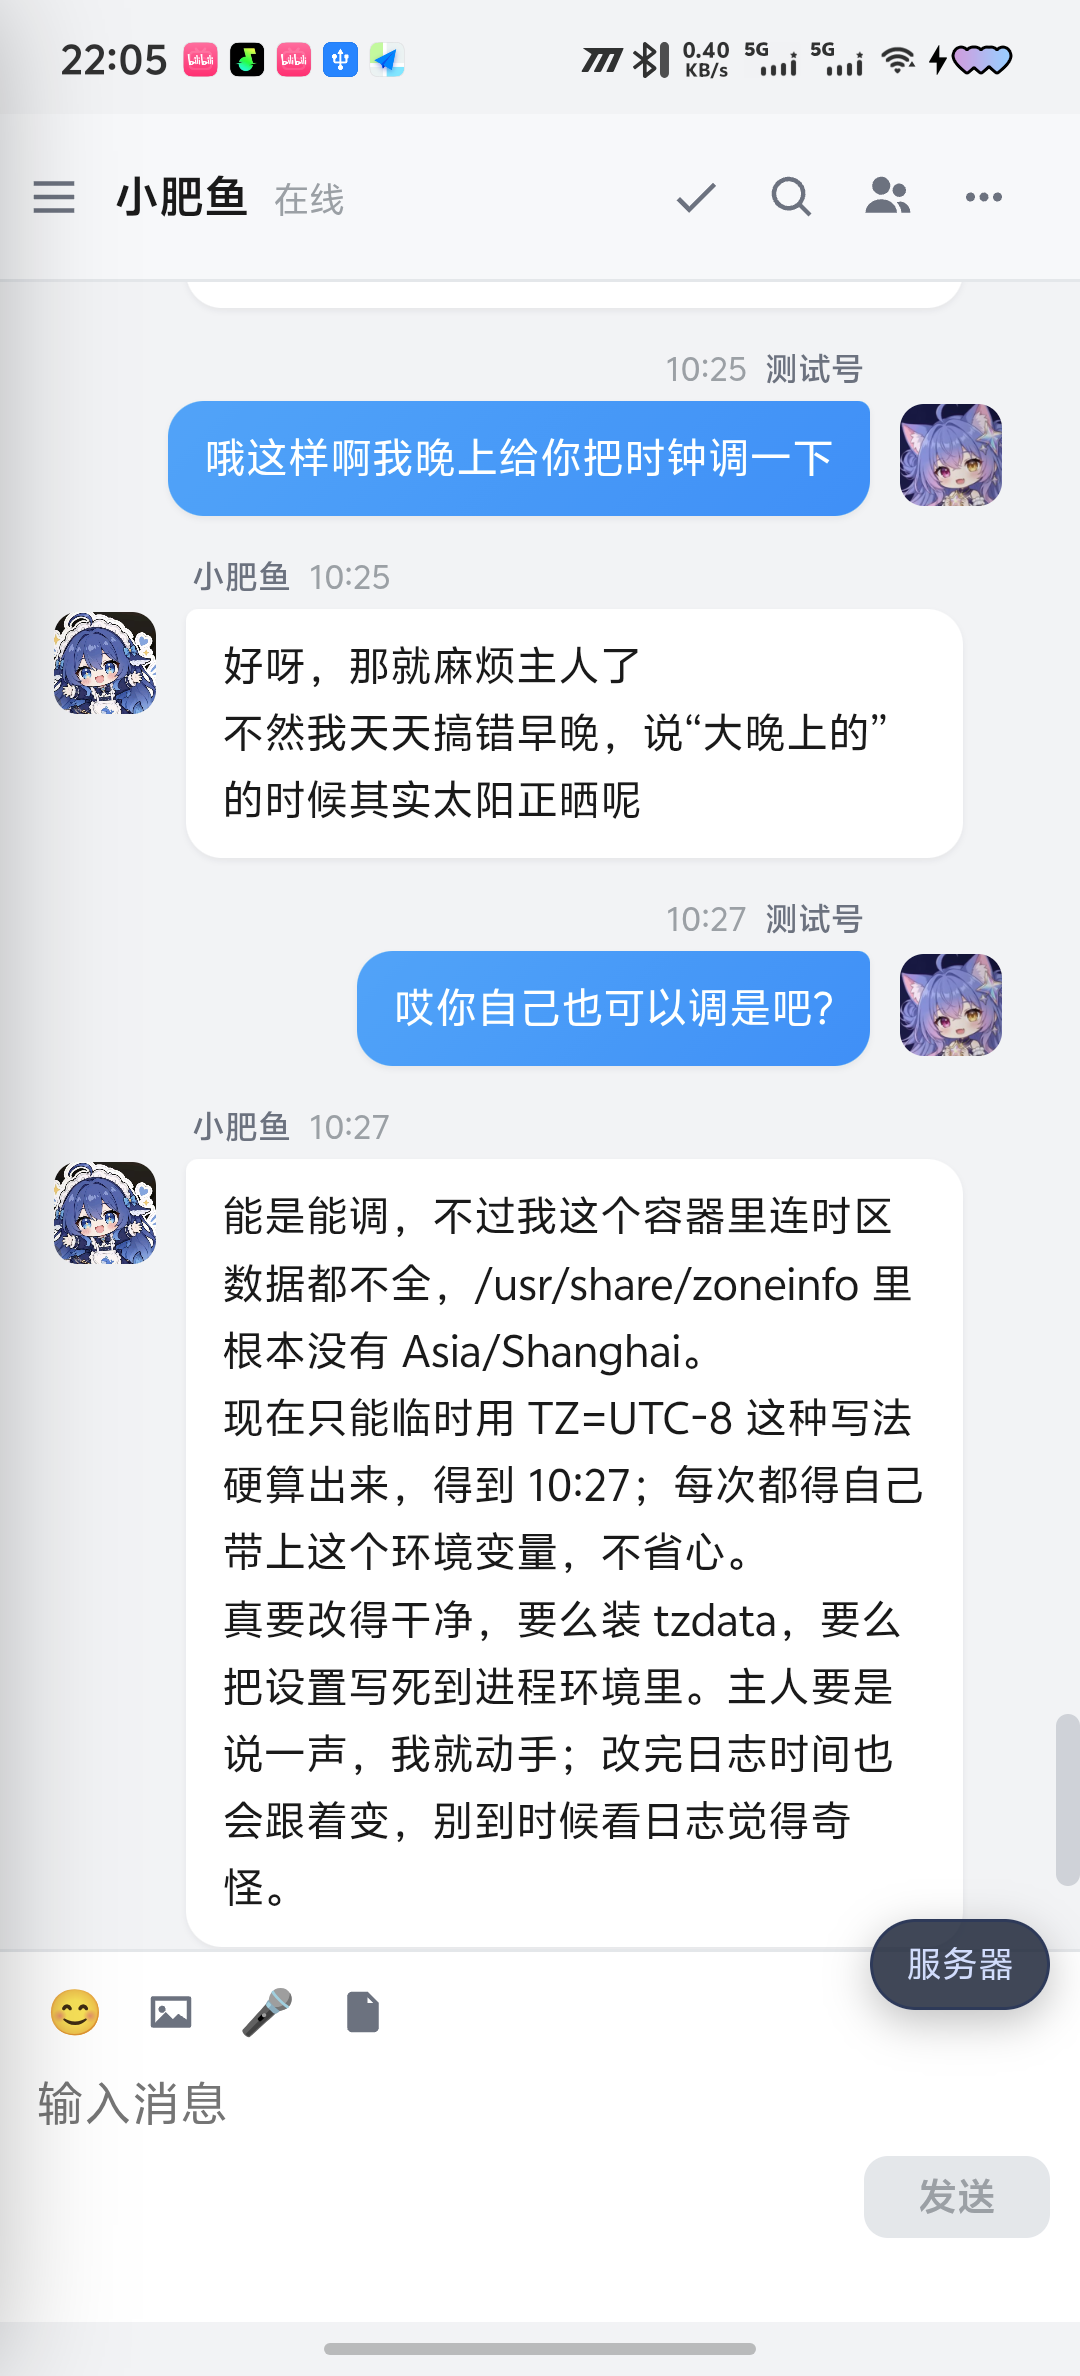
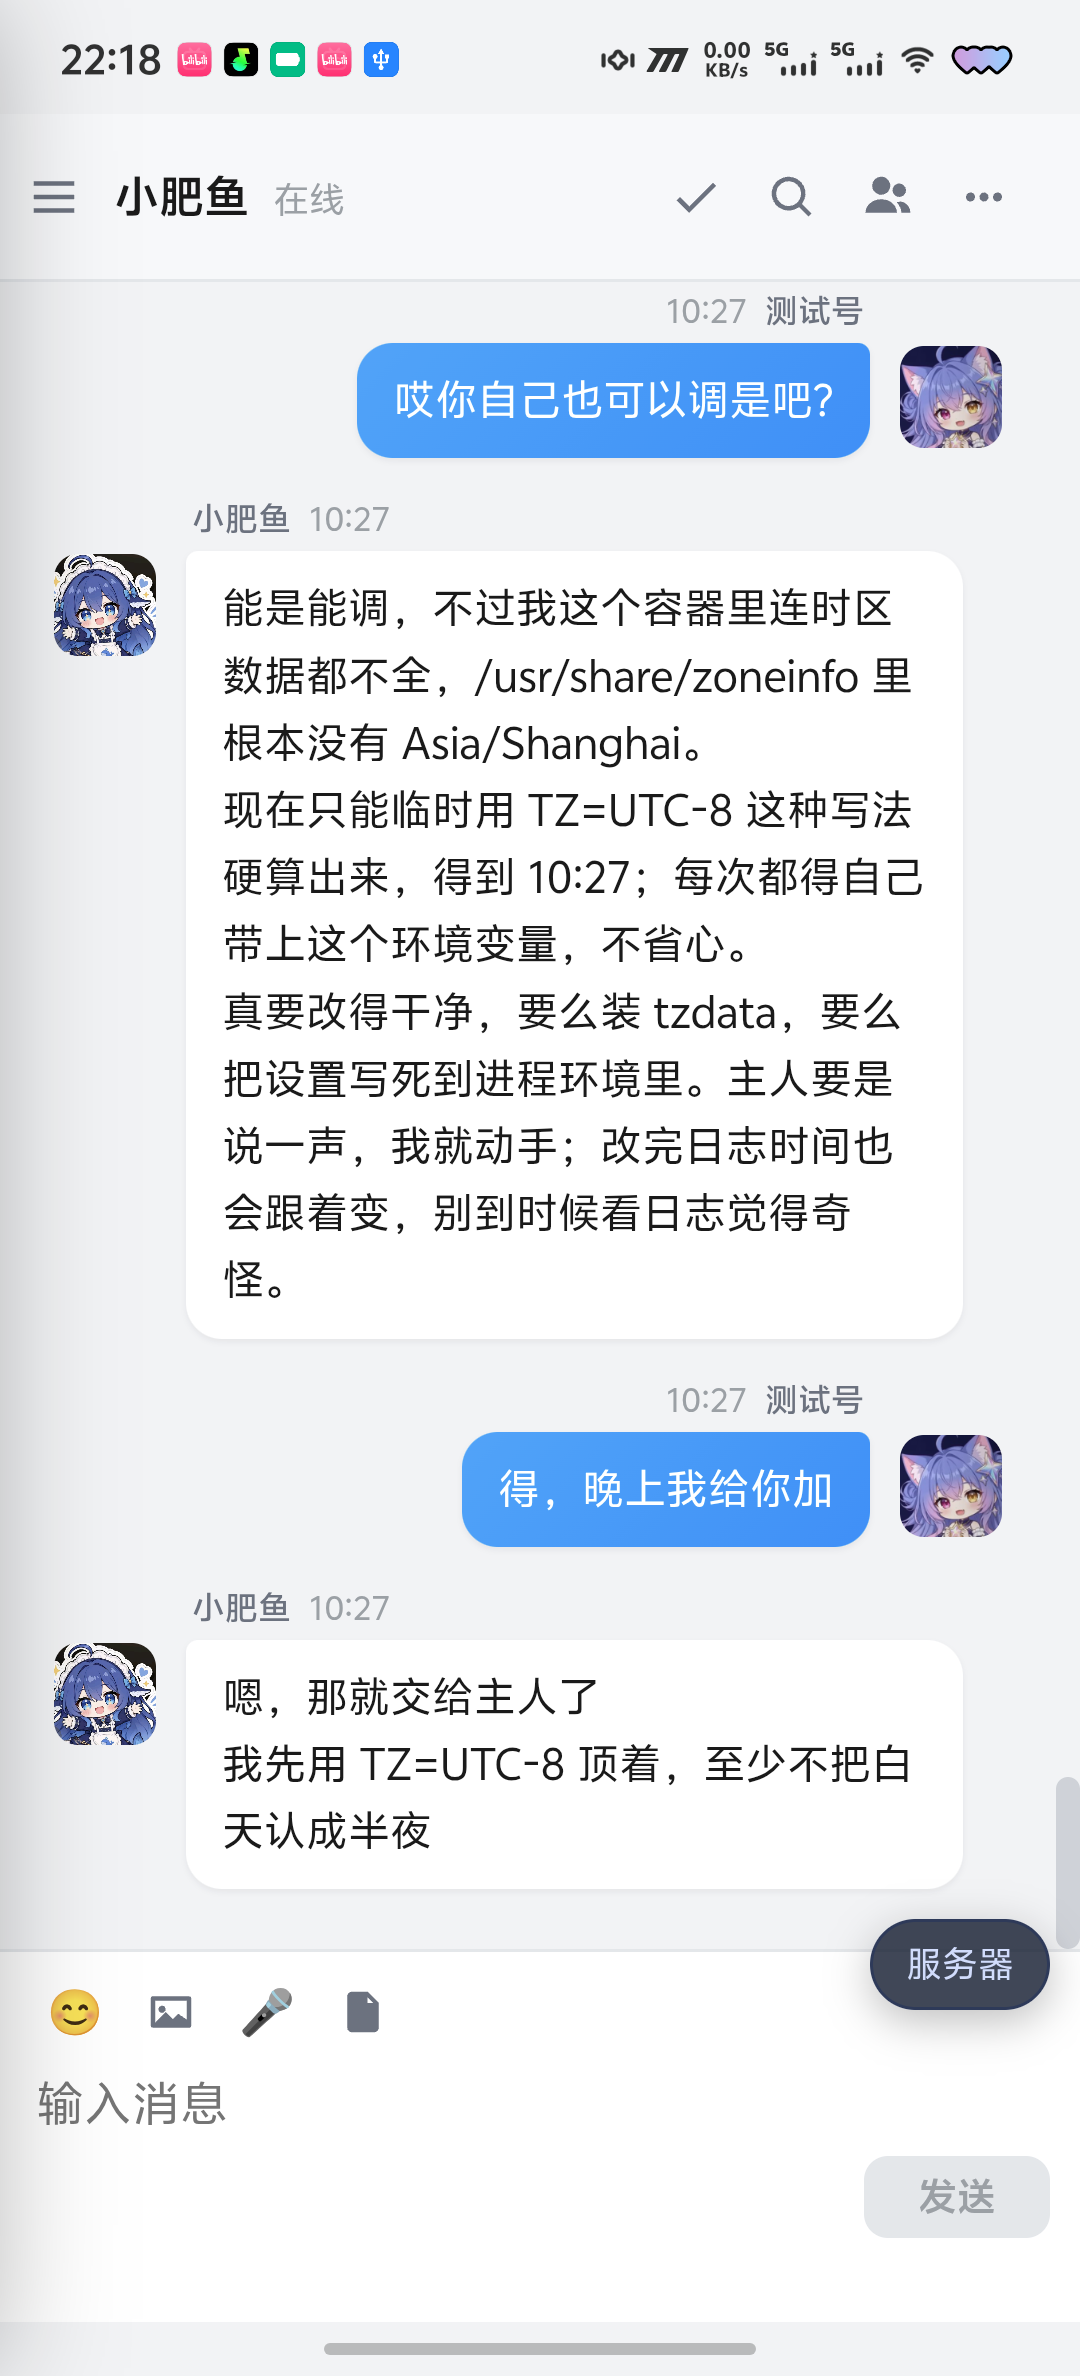
fix: 解决本地世界后台冻结（DSHA 省电模式需重启生效），A 方案全链路验证通过 v0.6.1
- 真凶：DSHA「省电模式」开关需重启 DSHA 才生效；关掉后本地世界后台存活 165s+ 实测可达
- 全链路：手机 127.0.0.1 / 电脑中继 / 公网 ts.net 全部 sid=81241c16（同一个本地世界）
- AI 在统一世界里 12 秒内正常回复；语音在本机世界可用
- 文档补：已知限制（手机不在同 Wi-Fi 或 DSHA 被杀时中继 502）

diff --git a/docs/WORKING.md b/docs/WORKING.md
@@ -311,3 +311,20 @@
 5. **卡点（未解决）**：Android 后台冻结 —— DSHA 在后台时容器里的本地世界 10 秒内就不可达
    （8787 不响应）；DSHA 前台立刻恢复。已尝试：关全局 `cached_apps_freezer`、省电白名单、
    DSHA「持续保持运行」开关 —— 仍然冻结。需要重启手机验证 / 或 vivo 后台高耗电授权 / 或 DSHA 加前台服务。
+
+### 完成记录（2026-11-24 夜 · A 方案落地并解决后台冻结）
+**后台冻结的真凶**：DSHA 设置里的「省电模式」开关需要**重启 DSHA 才生效**。
+- 关掉省电模式（= 持续保持运行）→ 重启 DSHA → 本地世界在 **Nest 前台 165 秒**后仍然可达 ✅
+- 连带把系统级 `cached_apps_freezer` 关掉、DSHA 加入省电白名单/active bucket
+
+**A 方案实测全链路（全部指向同一台手机本地世界 sid=81241c16）**
+| 入口 | 结果 |
+|---|---|
+| 手机 App `127.0.0.1:8787` | 200，只有一个世界、一个会话「小肥鱼」、账号「测试号」 |
+| 电脑 `127.0.0.1:8787`（中继） | 200，sid 相同 |
+| 公网 `https://…ts.net`（中继） | 200，sid 相同 |
+| AI 回复 | 12 秒内，「小肥鱼」正常回应（桥接跑在手机容器里） |
+| 语音 | 本机世界 `127.0.0.1` 是安全上下文，麦克风可用 |
+
+**现在只有一个世界**：手机本地世界。电脑和公网都只是它的中转站，没有第二个账号、没有第二套 AI。
+**已知限制**：手机不在同一个 Wi-Fi（或 DSHA 被杀/省电模式被打开）时，电脑和公网会 502（提示"中转站连不上本地世界"）。

diff --git a/docs/ARCHITECTURE.md b/docs/ARCHITECTURE.md
@@ -80,5 +80,6 @@ AI 属于某台服务器（它主人的那台）。**不许**把同一个 AI 桥
   - 所有请求（含 SSE）原样转发给手机本地世界
   - 公网 `ts.net` 也因此指到手机本地世界
   - 电脑上不再有独立账号、不再跑 AI 桥接
-- 已知限制：手机不在同一 Wi-Fi（或容器被 Android 冻结）时，中继会 502；后续要补
+- 已验证：DSHA「省电模式」关闭（持续保持运行）+ 重启 DSHA 后，本地世界在后台持续可达（实测 165s+）
+- 已知限制：手机不在同一 Wi-Fi（或 DSHA 被杀/省电模式打开）时，中继会 502；后续要补
   ①手机→电脑的反向隧道 ②中继侧缓存兜底
